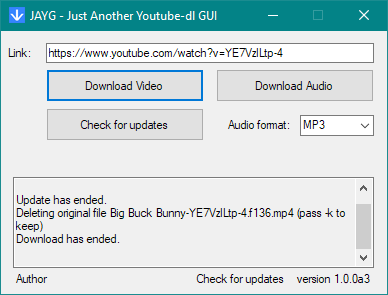
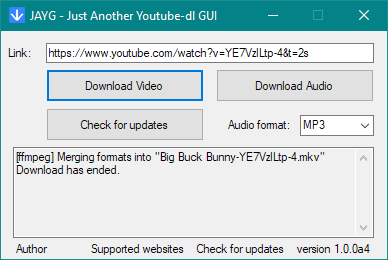
Resized Window, added the supported websites label
updated the preview image

Changed region(s): [[0.0, 0.0, 1.0, 1.0], [0.0, 0.1538, 0.0928, 0.2462], [0.6804, 0.0308, 0.7113, 0.0615]]

diff --git a/youtube-dl GUI/Form1.Designer.cs b/youtube-dl GUI/Form1.Designer.cs
@@ -40,6 +40,7 @@
             this.labelVersion = new System.Windows.Forms.Label();
             this.labelUpdates = new System.Windows.Forms.Label();
             this.labelAuthor = new System.Windows.Forms.Label();
+            this.labelSupportedwebsites = new System.Windows.Forms.Label();
             this.SuspendLayout();
             // 
             // ShellOutputForm
@@ -128,7 +129,7 @@
             this.labelVersion.Name = "labelVersion";
             this.labelVersion.Size = new System.Drawing.Size(80, 13);
             this.labelVersion.TabIndex = 8;
-            this.labelVersion.Text = "version 1.0.0a3";
+            this.labelVersion.Text = "version 1.0.0a4";
             // 
             // labelUpdates
             // 
@@ -154,12 +155,25 @@
             this.labelAuthor.MouseEnter += new System.EventHandler(this.labelAuthor_MouseEnter);
             this.labelAuthor.MouseLeave += new System.EventHandler(this.labelAuthor_MouseLeave);
             // 
+            // labelSupportedwebsites
+            // 
+            this.labelSupportedwebsites.AutoSize = true;
+            this.labelSupportedwebsites.Location = new System.Drawing.Point(87, 211);
+            this.labelSupportedwebsites.Name = "labelSupportedwebsites";
+            this.labelSupportedwebsites.Size = new System.Drawing.Size(100, 13);
+            this.labelSupportedwebsites.TabIndex = 11;
+            this.labelSupportedwebsites.Text = "Supported websites";
+            this.labelSupportedwebsites.Click += new System.EventHandler(this.labelSupportedwebsites_Click);
+            this.labelSupportedwebsites.MouseEnter += new System.EventHandler(this.labelSupportedwebsites_MouseEnter);
+            this.labelSupportedwebsites.MouseLeave += new System.EventHandler(this.labelSupportedwebsites_MouseLeave);
+            // 
             // Form1
             // 
             this.AutoScaleDimensions = new System.Drawing.SizeF(6F, 13F);
             this.AutoScaleMode = System.Windows.Forms.AutoScaleMode.Font;
             this.AutoSize = true;
             this.ClientSize = new System.Drawing.Size(386, 228);
+            this.Controls.Add(this.labelSupportedwebsites);
             this.Controls.Add(this.labelAuthor);
             this.Controls.Add(this.labelUpdates);
             this.Controls.Add(this.labelVersion);
@@ -194,6 +208,7 @@
         private System.Windows.Forms.Label labelVersion;
         private System.Windows.Forms.Label labelUpdates;
         private System.Windows.Forms.Label labelAuthor;
+        private System.Windows.Forms.Label labelSupportedwebsites;
     }
 }
 

diff --git a/youtube-dl GUI/Form1.cs b/youtube-dl GUI/Form1.cs
@@ -251,5 +251,20 @@ namespace youtube_dl_GUI
         {
             labelUpdates.Font = new Font(labelUpdates.Font.Name, labelUpdates.Font.SizeInPoints, FontStyle.Regular);
         }
+
+        private void labelSupportedwebsites_Click(object sender, EventArgs e)
+        {
+            System.Diagnostics.Process.Start("https://rg3.github.io/youtube-dl/supportedsites.html");
+        }
+
+        private void labelSupportedwebsites_MouseEnter(object sender, EventArgs e)
+        {
+            labelSupportedwebsites.Font = new Font(labelSupportedwebsites.Font.Name, labelSupportedwebsites.Font.SizeInPoints, FontStyle.Underline);
+        }
+
+        private void labelSupportedwebsites_MouseLeave(object sender, EventArgs e)
+        {
+            labelSupportedwebsites.Font = new Font(labelSupportedwebsites.Font.Name, labelSupportedwebsites.Font.SizeInPoints, FontStyle.Regular);
+        }
     }
 }
